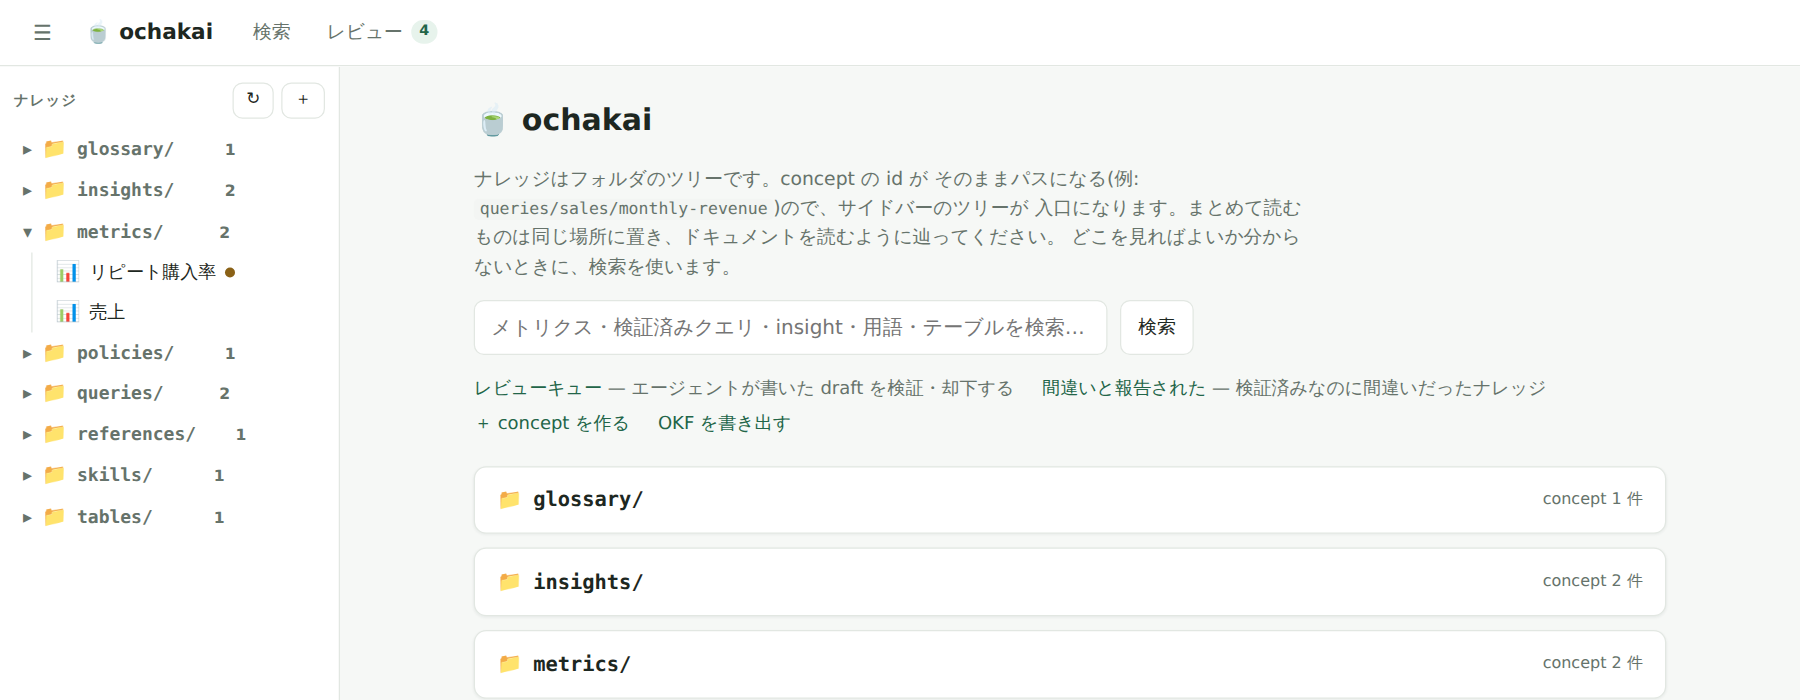
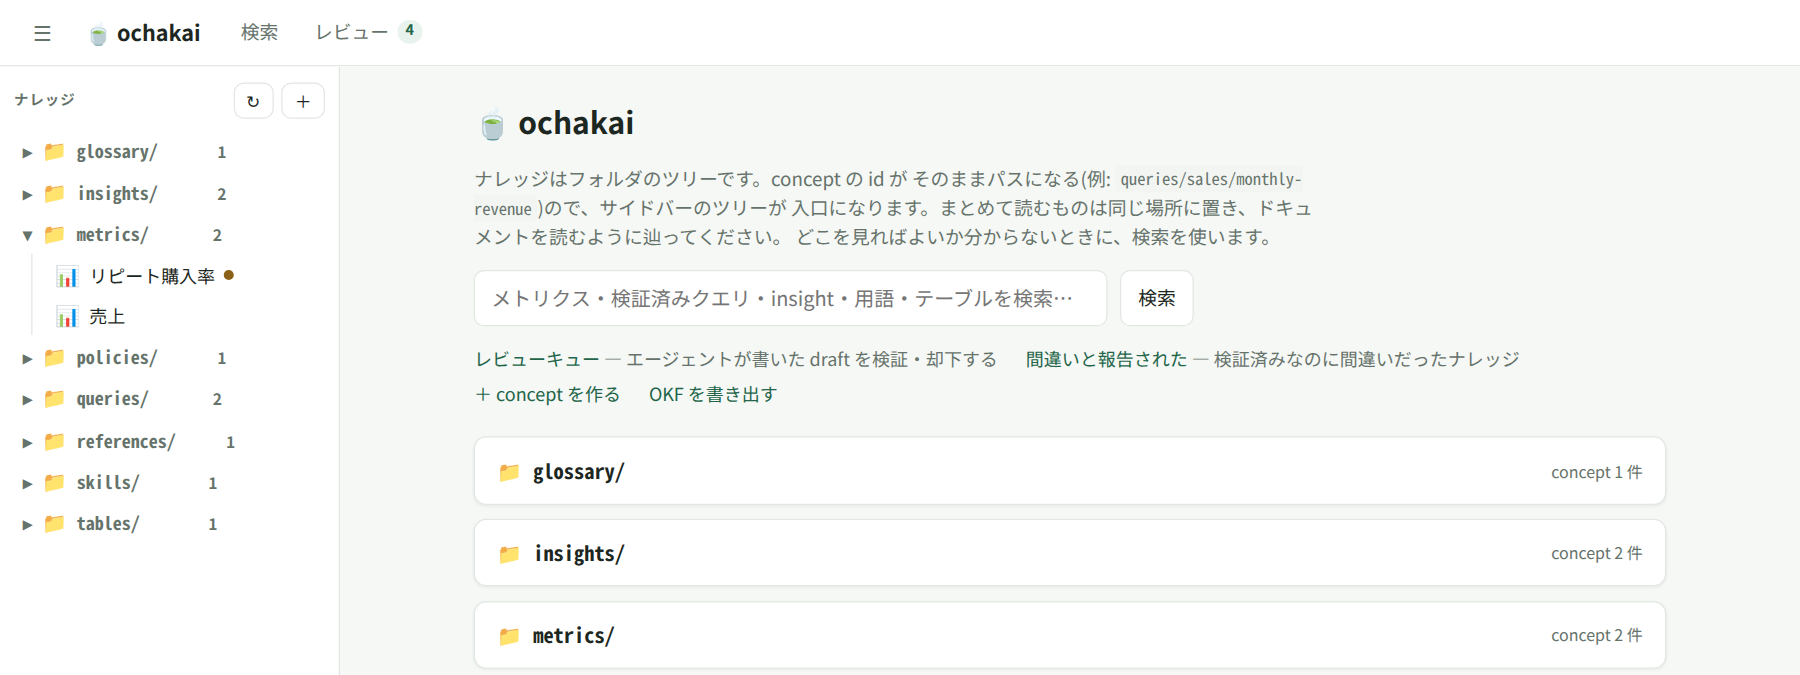
Reshoot the remaining Web UI screenshots with a proper Japanese font
webui-entry.png, webui-wrong.png and webui-tree.png came from the same
batch as the review-queue shot: a machine with no Japanese font, where
the UI's system-ui/sans-serif stack resolved to a Chinese fallback, so
every page rendered in glyph forms a Japanese reader notices. Retaken on
a machine where sans-serif resolves to Noto Sans CJK JP, one browser
session walking the routes in the documented order so the sidebar state
matches, with the light scheme and the ja-JP locale forced over CDP.

The tree route's height moves 560 -> 540: the new font sets the folder
cards a little higher, and 560 now catches the top edge of the card
after the last one. The screenshots section gains the font as a third
thing to force, and names the admin-only access tab alongside the dev
banner as the other artifact of shooting against OCHAKAI_MODE=dev.

Claude-Session: https://claude.ai/code/session_01JmN5XWDnVcnuR3LARNtBxV

diff --git a/CONTRIBUTING.md b/CONTRIBUTING.md
@@ -278,10 +278,11 @@ go run ./cmd/ochakai import examples/demo
 
 `dev` is the only posture that is writable without an identity in front,
 and a dev deployment now says so on every page, so a capture taken this
-way carries the banner and the committed ones do not. Crop it out, or
-shoot against a deployment whose callers are authenticated: what the
-pictures are for is the product, and the banner is about the machine you
-happen to be running it on.
+way carries the banner — and an アクセス tab, because dev's anonymous
+caller reads as an administrator — and the committed ones do not. Crop
+them out, or shoot against a deployment whose callers are authenticated:
+what the pictures are for is the product, and both of those are about the
+machine you happen to be running it on.
 
 The bundle already carries the two drafts the review queue needs and a
 draft whose `stale_after` has passed. The re-verification feed is the one
@@ -317,12 +318,18 @@ a UI change moves them.
 | `#/review` | `webui-review.png` | 870 |
 | `#/k/metrics/revenue` | `webui-entry.png` | 360 |
 | `#/search/reported-wrong` | `webui-wrong.png` | 420 |
-| `#/` | `webui-tree.png` | 560 |
+| `#/` | `webui-tree.png` | 540 |
 
-Two things have to be forced, or the pictures come out wrong in ways
+Three things have to be forced, or the pictures come out wrong in ways
 that are easy to miss:
 
 - **Light scheme.** Headless Chrome defaults to dark.
+- **A Japanese font on the machine.** The UI asks for `system-ui` and
+  `sans-serif` and takes whatever fontconfig hands back, which on a
+  machine carrying no Japanese font is a Chinese one — every page then
+  renders in glyph forms a Japanese reader notices and nothing in the
+  shot explains. Install one (`fonts-noto-cjk` on Debian) and check
+  `fc-match 'sans-serif:lang=ja'` before shooting.
 - **A `ja-JP` locale.** The entry page prints its dates with
   `toLocaleDateString()`, which reads ICU's default locale, while the
   rest of the page is the Japanese UI serving a Japanese knowledge base
